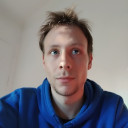
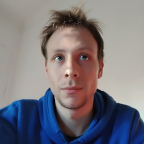
optimizations

diff --git a/src/pages/index/index.page.tsx b/src/pages/index/index.page.tsx
@@ -21,7 +21,7 @@ export const Page = () => (
 const Header = () => (
   <header className="bg-yellow dark:bg-muted md:-mt-6">
     <h1 className="col md:row row h-[24rem] items-center justify-center px-4 md:gap-4">
-      <img src={photo} className="w-[9rem] rounded-lg" alt="my face" />
+      <img src={photo} width={144} height={144} className="rounded-lg" alt="my face" />
       <p className="max-w-[24rem] text-xl">
         Hi! I'm <span className="font-semibold text-[#8a2626] dark:text-[#FFFFFF]">nilscox</span>, yet another
         web developer.

diff --git a/vite.config.ts b/vite.config.ts
@@ -13,8 +13,12 @@ const config: UserConfig = {
   server: {
     port: 8000,
   },
-  // eslint-disable-next-line @typescript-eslint/no-unsafe-call
-  plugins: [react(), svgr(), ssr(), visualizer()],
+  plugins: [react(), svgr(), ssr()],
+  build: {
+    rollupOptions: {
+      plugins: [visualizer()],
+    },
+  },
 };
 
 export default config;

diff --git a/src/layout.tsx b/src/layout.tsx
@@ -77,6 +77,7 @@ const ToggleDarkMode = () => (
   <button
     type="button"
     className="row items-start p-0 pt-1"
+    title="Toggle dark mode"
     onClick={() => {
       document.body.parentElement?.classList.toggle('dark');
     }}
